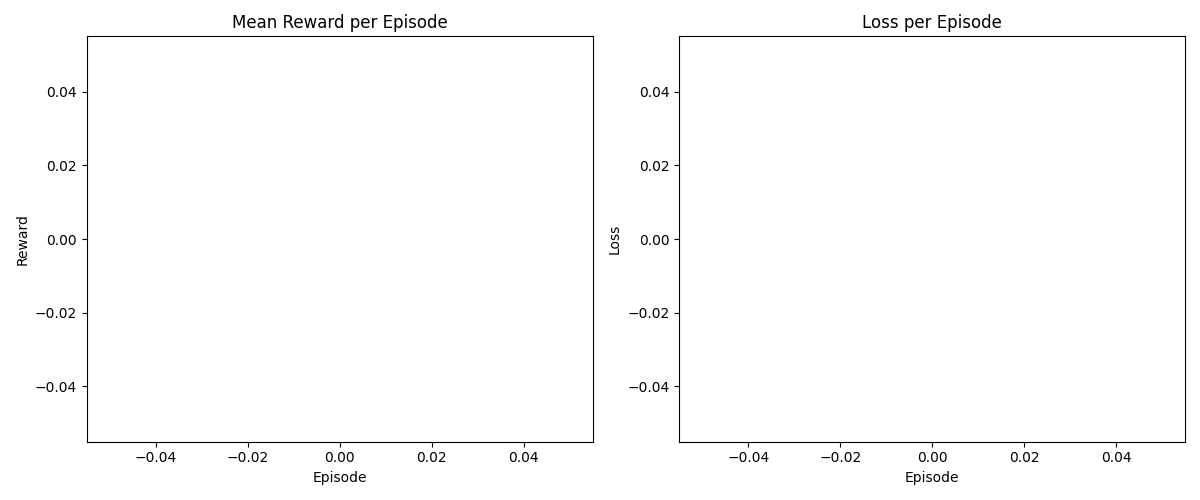
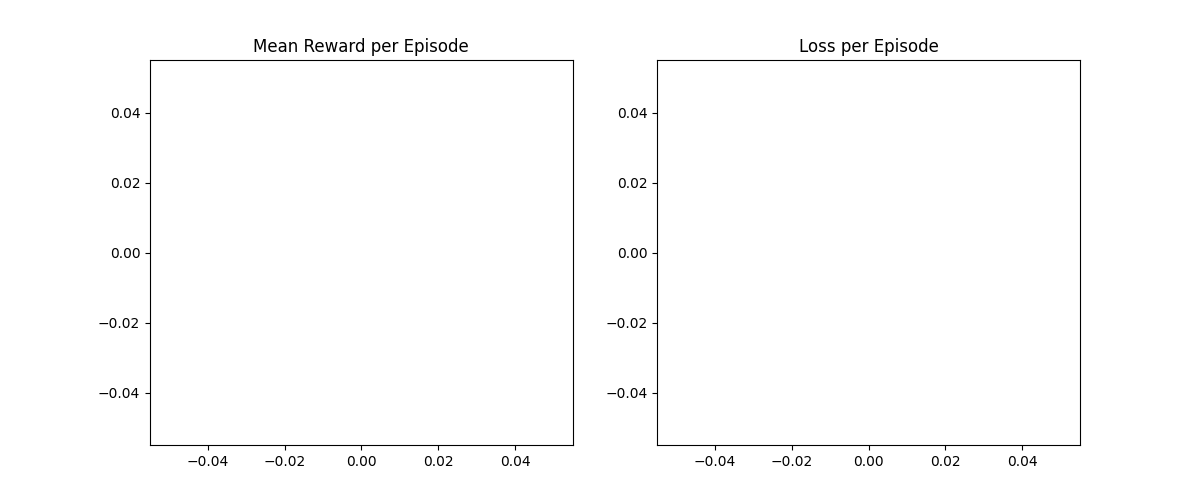
fix(model-deep-rl) to include state with bid and counter offer, also added intermediate reward chore:need to fix the loss calculation

diff --git a/model/model-deep-rl/bidding.py b/model/model-deep-rl/bidding.py
@@ -1,97 +1,90 @@
-import pandas as pd
-import numpy as np
-import mesa
-import os
-import tensorflow as tf
+import pandas as pd  
+import numpy as np 
+import mesa 
+import os 
+import tensorflow as tf 
 from tensorflow import keras
-from keras import layers
-from mesa.time import RandomActivation
-import csv
-import random
-import warnings
-import time
-from collections import defaultdict
+from keras import layers  
+from mesa.time import RandomActivation  
+import csv 
+import random  
+import warnings 
+import time 
+from collections import defaultdict  
 
 ignore_warnings = warnings.filterwarnings("ignore")
+
+# Set random seed for reproducibility
 np.random.seed(0)
 
-PERCENTAGE_ABOVE_WTP = 1.2
-PERCENTAGE_BELOW_WTP = 0.8
-ALPHA = 0.001 
-GAMMA = 0.9 
-EPSILON = 0.1  
-NEGOTIATION_PENALTY_FACTOR = 0.05
-NUM_HOUSE_SAMPLE = 15
+## To do:
+# Pass bidding and counter offer in the state during model training and prediction
+# How does the DRL maximize the reward over time? Is the total reward stored somewhere?
+# Does it go back to the model for loss calculation and back propagation? add loss calculation
+# Reward the intermediate behaviour if both parties are willing to compromise. You can also reward big at the end of a successful episode.
+# hat is, given a certain state, the action involving the rewarding behaviour can be represented as class labels.
 
+# Constants used in negotiation and RL
+PERCENTAGE_ABOVE_WTP = 1.2  
+PERCENTAGE_BELOW_WTP = 0.8  
+ALPHA = 0.001 
+GAMMA = 0.9  
+EPSILON = 0.1  
+NEGOTIATION_PENALTY_FACTOR = 0.05 
+NUM_HOUSE_SAMPLE = 15  
+NEGOTIATION_PENALTY_FACTOR = 0.05
+INTERMEDIATE_REWARD = 0.5
+
+# Class to simulate the bidding process between households and houses
 class BiddingGame:
     def __init__(self):
         self.house_list = {}
         self.bidding_results = []
-
-    def load_data(self, household_data_path="../../results/household_eligibility.csv", houses_path='../../inputs/Parcel.xlsx'):
+    # Load household eligibility data and available houses
+    def load_data(self, household_data_path="./results/household_eligibility.csv", houses_path='./inputs/Parcel.xlsx'):
         self.household_data = pd.read_csv(household_data_path)
         self.household_data.set_index("household_id", inplace=True)
         self.houses = pd.read_excel(houses_path)
+    
+    def negotiate_price(self, household, house_value):
+        bid = household.lower_bound
+        counter_offer = house_value
+        negotiation_prices = []
+        state = np.array([[bid, counter_offer]])
+        steps = 0
 
-    def run(self, households):
-        self.load_data()
-        rl_households = list(households.values())
+        while bid <= counter_offer:
+            action_values = household.model.predict(state, verbose=0)
+            action = np.argmax(action_values)
+            increment = [0.02, 0.05, 0.1][action]
+            new_bid = bid + bid * increment
+            new_counter = counter_offer - counter_offer * np.random.uniform(0.02, 0.05)
 
-        for household in rl_households:
-            state = np.array([[household.wtp]])
-            if np.random.rand() < EPSILON:
-                action = np.random.choice(3)
+            intermediate_reward = 0
+            if new_bid > bid and new_counter < counter_offer:
+                intermediate_reward = INTERMEDIATE_REWARD
+
+            final = False
+            if new_bid >= new_counter:
+                final = True
+                reward = 1 - steps * NEGOTIATION_PENALTY_FACTOR
             else:
-                prediction = household.model.predict(state, verbose=0)
-                action = np.argmax(prediction)
+                reward = intermediate_reward - NEGOTIATION_PENALTY_FACTOR
 
-            reward = np.random.choice([1, -1])
-            household.memory.append((state, action, reward, state))
+            next_state = np.array([[new_bid, new_counter]])
+            household.memory.append((state, action, reward, next_state))
 
-            if len(household.memory) > 10:
-                batch = random.sample(household.memory, 10)
-                states = np.vstack([b[0] for b in batch])
-                next_states = np.vstack([b[3] for b in batch])
-                predictions_next = household.model.predict(next_states, verbose=0)
-                targets = []
-                for i, (s, a, r, ns) in enumerate(batch):
-                    target = household.model.predict(s, verbose=0)
-                    target[0][a] = r + GAMMA * np.max(predictions_next[i])
-                    targets.append(target[0])
-                history = household.model.fit(states, np.array(targets), epochs=1, verbose=0)
-                # Update metrics with the current loss
-                household.update_metrics(reward, history.history['loss'][0])
+            state = next_state
+            bid = new_bid
+            counter_offer = new_counter
+            negotiation_prices.append((bid, counter_offer))
+            steps += 1
 
-        for household in rl_households:
-            print(f"Starting bids for Household ID: {household.unique_id}")
-            results = self.rl_bidding(household)
-            if results:
-                sorted_list = sorted(results.items(), key=lambda x: x[1])
-                bins = max(1, len(sorted_list) // 4)
-                house_choices = [
-                    random.choice(sorted_list[i * bins:(i + 1) * bins])
-                    for i in range(4) if sorted_list[i * bins:(i + 1) * bins]
-                ]
+            if final:
+                break
 
-                chosen_house, chosen_price = random.choice(house_choices)
-                chosen_houses = {h_id: price for h_id, price in house_choices}
-                remaining_houses = {h: p for h, p in chosen_houses.items() if h != chosen_house}
-
-                household.chosen_house = chosen_house
-                household.chosen_house_price = chosen_price
-                household.house_choices = remaining_houses
-                household.successful_deals += 1
-                household.deals.append(chosen_house)
-
-                print(f"Household {household.unique_id} chose house {chosen_house} at ${chosen_price:.2f}")
-                remaining_houses = {h: p for h, p in chosen_houses.items() if h != chosen_house}
-                print("Other three choices:", remaining_houses)
-
-            else:
-                print(f"No suitable houses found for Household {household.unique_id}")
-
-        pd.DataFrame(self.bidding_results).to_csv("../../results/model-deep-rl/bidding_results.csv", index=False)
-
+        final_price = min(bid, counter_offer)
+        return final_price, negotiation_prices
 
     def sample_houses(self, eligible_houses):
         if len(eligible_houses) <= NUM_HOUSE_SAMPLE:
@@ -103,30 +96,27 @@ class BiddingGame:
         high = eligible_houses[prices > quantiles[0.66]].sample(5)
         return pd.concat([low, mid, high])
 
-    def negotiate_price(self, household, counter_offer):
-        bid = household.lower_bound
-        counter_offer = np.random.uniform(household.lower_bound, household.upper_bound)
-        state = np.array([household.wtp]).reshape(1, -1)
-        negotiation_prices = [(bid, counter_offer)]
-        results = {}
-        steps = 0
-        while bid <= counter_offer:
-            action = np.argmax(household.model.predict(state, verbose=0))
-            bid += bid * [0.02, 0.05, 0.1][action]
-            if bid >= counter_offer:
-                break
-            counter_offer -= counter_offer * np.random.uniform(0.02, 0.05)
-            negotiation_prices.append((bid, counter_offer))
-            steps += 1
-        final_price = min(bid, counter_offer)
-        reward = -steps * NEGOTIATION_PENALTY_FACTOR
-        household.memory.append((state, action, reward, state))
-        return final_price, negotiation_prices
+    def train_model(self, household):
+        if len(household.memory) >= 10:
+            batch = random.sample(household.memory, 10)
+            states = np.vstack([x[0] for x in batch])
+            actions = [x[1] for x in batch]
+            rewards = [x[2] for x in batch]
+            next_states = np.vstack([x[3] for x in batch])
 
-    def rl_bidding(self, household):
-        eligible = self.houses[
-            (self.houses['PUBVALUE'] > household.lower_bound) &
-            (self.houses['PUBVALUE'] <= household.upper_bound)
+            q_values_next = household.model.predict(next_states, verbose=0)
+            q_values = household.model.predict(states, verbose=0)
+
+            for i in range(10):
+                q_values[i][actions[i]] = rewards[i] + GAMMA * np.max(q_values_next[i])
+
+            history = household.model.fit(states, q_values, epochs=1, verbose=0)
+            household.update_metrics(np.mean(rewards), history.history['loss'][0])
+
+    def rl_bidding(self, household, houses_df):
+        eligible = houses_df[
+            (houses_df['PUBVALUE'] > household.lower_bound) &
+            (houses_df['PUBVALUE'] <= household.upper_bound)
         ]
         sampled = self.sample_houses(eligible)
         results = {}
@@ -138,8 +128,76 @@ class BiddingGame:
                 'house_id': house['OBJECTID'],
                 'initial_bid': household.lower_bound,
                 'final_price': final_price,
-                'counter_offer': household.wtp,
+                'counter_offer': house['PUBVALUE'],
                 'negotiation_steps': len(negotiation),
                 'negotiation_prices': str(negotiation)
             })
         return results
+    
+
+    # Main method to run the simulation for a given set of households
+    def run(self, households):
+        self.load_data()
+        rl_households = list(households.values())
+
+        # Loop through each household to take RL actions and train
+        for household in rl_households:
+            # current state is the household's willingness to pay and the house value
+            state = np.array([[household.wtp, household.lower_bound]])  # Initial state
+            if np.random.rand() < EPSILON:
+                action = np.random.choice(3)  # Exploration: choose random action
+            else:
+                state = np.reshape(state, (1, 2))
+                prediction = household.model.predict(state, verbose=0)  # Exploitation: use model
+                action = np.argmax(prediction)
+
+            reward = np.random.choice([1, -1])  # Random reward (placeholder logic)
+            household.memory.append((state, action, reward, state))  # Store experience
+
+            # Train model if enough experiences are collected
+            if len(household.memory) > 10:
+                batch = random.sample(household.memory, 10)
+                states = np.vstack([b[0] for b in batch])
+                next_states = np.vstack([b[3] for b in batch])
+                predictions_next = household.model.predict(next_states, verbose=0)
+                targets = []
+                for i, (s, a, r, ns) in enumerate(batch):
+                    target = household.model.predict(s, verbose=0)
+                    target[0][a] = r + GAMMA * np.max(predictions_next[i])  # Q-learning update
+                    targets.append(target[0])
+                # Train the model on the updated targets
+                history = household.model.fit(states, np.array(targets), epochs=1, verbose=0)
+                household.update_metrics(reward, history.history['loss'][0])  # Log metrics
+
+        # After training, perform actual bidding
+        for household in rl_households:
+            print(f"Starting bids for Household ID: {household.unique_id}")
+            results = self.rl_bidding(household, self.houses)
+            if results:
+                sorted_list = sorted(results.items(), key=lambda x: x[1])  # Sort by final price
+                bins = max(1, len(sorted_list) // 4)
+                # Pick 1 house from each quartile of the sorted list
+                house_choices = [
+                    random.choice(sorted_list[i * bins:(i + 1) * bins])
+                    for i in range(4) if sorted_list[i * bins:(i + 1) * bins]
+                ]
+
+                # Randomly select one house among the 4 choices
+                chosen_house, chosen_price = random.choice(house_choices)
+                chosen_houses = {h_id: price for h_id, price in house_choices}
+                remaining_houses = {h: p for h, p in chosen_houses.items() if h != chosen_house}
+
+                # Store decision in household attributes
+                household.chosen_house = chosen_house
+                household.chosen_house_price = chosen_price
+                household.house_choices = remaining_houses
+                household.successful_deals += 1
+                household.deals.append(chosen_house)
+
+                print(f"Household {household.unique_id} chose house {chosen_house} at ${chosen_price:.2f}")
+                print("Other three choices:", remaining_houses)
+            else:
+                print(f"No suitable houses found for Household {household.unique_id}")
+
+        # Save results to CSV
+        pd.DataFrame(self.bidding_results).to_csv("./results/model-deep-rl/bidding_results.csv", index=False)

diff --git a/model/model-deep-rl/household_rl.py b/model/model-deep-rl/household_rl.py
@@ -35,54 +35,41 @@ class RLHousehold(mesa.Agent):
         self.successful_deals = 0
         self.chosen_house = None
         self.house_choices = {}
-        self.successful_deals = 0
         self.deals = []
         self.memory = []
         self.model = self.build_model()
-        
-        # Metrics tracking
         self.episode_rewards = []
         self.episode_losses = []
         self.current_episode_reward = 0
         self.current_episode_loss = 0
-    
+
     def build_model(self):
         model = keras.Sequential([
-            layers.Dense(24, activation='relu', input_shape=(1,)),
+            layers.Dense(24, activation='relu', input_shape=(2,)),
             layers.Dense(24, activation='relu'),
             layers.Dense(3, activation='linear')
         ])
         model.compile(optimizer=keras.optimizers.Adam(learning_rate=ALPHA), loss='mse')
         return model
-        
+
     def update_metrics(self, reward, loss):
         self.current_episode_reward += reward
         self.current_episode_loss += loss
-        
+
     def end_episode(self):
         self.episode_rewards.append(self.current_episode_reward)
         self.episode_losses.append(self.current_episode_loss)
         self.current_episode_reward = 0
         self.current_episode_loss = 0
-        
+
     def plot_metrics(self, save_path=None):
         plt.figure(figsize=(12, 5))
-        
-        # Plot rewards
         plt.subplot(1, 2, 1)
         plt.plot(self.episode_rewards)
         plt.title('Mean Reward per Episode')
-        plt.xlabel('Episode')
-        plt.ylabel('Reward')
-        
-        # Plot losses
         plt.subplot(1, 2, 2)
         plt.plot(self.episode_losses)
         plt.title('Loss per Episode')
-        plt.xlabel('Episode')
-        plt.ylabel('Loss')
-        
-        plt.tight_layout()
         if save_path:
             plt.savefig(save_path)
         plt.show()

diff --git a/model/model-deep-rl/housing_market.py b/model/model-deep-rl/housing_market.py
@@ -30,8 +30,8 @@ class HousingMarket(mesa.Model):
         self.episode = 0
 
     def init_data(self):
-        self.household_data = pd.read_excel('../../inputs/HMTS.xlsx')
-        self.parcel_data = pd.read_excel('../../inputs/Parcel.xlsx')
+        self.household_data = pd.read_excel('./inputs/HMTS.xlsx')
+        self.parcel_data = pd.read_excel('./inputs/Parcel.xlsx')
 
     def init_housing_stock(self):
         self.housing_stock = [House(row) for _, row in self.parcel_data.iterrows()]
@@ -54,7 +54,7 @@ class HousingMarket(mesa.Model):
         # Plot metrics for the first household (as a sample)
         if self.episode % 1 == 0:  # Plot every 1 episodes
             first_household = next(iter(households['rl'].values()))
-            first_household.plot_metrics(save_path=f'../../output-analysis/model-deep-rl/metrics_episode_{self.episode}.png')
+            first_household.plot_metrics(save_path=f'./output-analysis/model-deep-rl/metrics_episode_{self.episode}.png')
 
     def simulate(self):
         households = {

diff --git a/model/model-deep-rl/household.py b/model/model-deep-rl/household.py
@@ -50,7 +50,7 @@ class Household(mesa.Agent):
 
 
     @staticmethod
-    def save_eligibility_data(households, filename="../../results/household_eligibility.csv"):
+    def save_eligibility_data(households, filename="./results/household_eligibility.csv"):
         """Save household eligibility data (wtp, lower_bound, upper_bound) to a CSV file."""
         df = pd.DataFrame.from_dict(
             {
